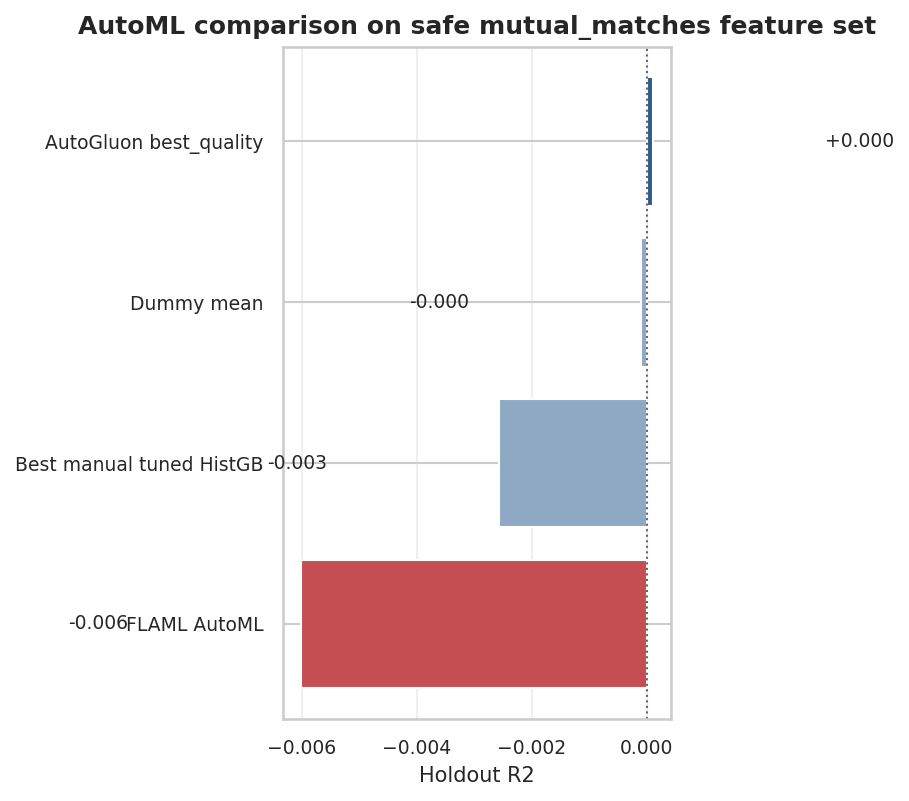
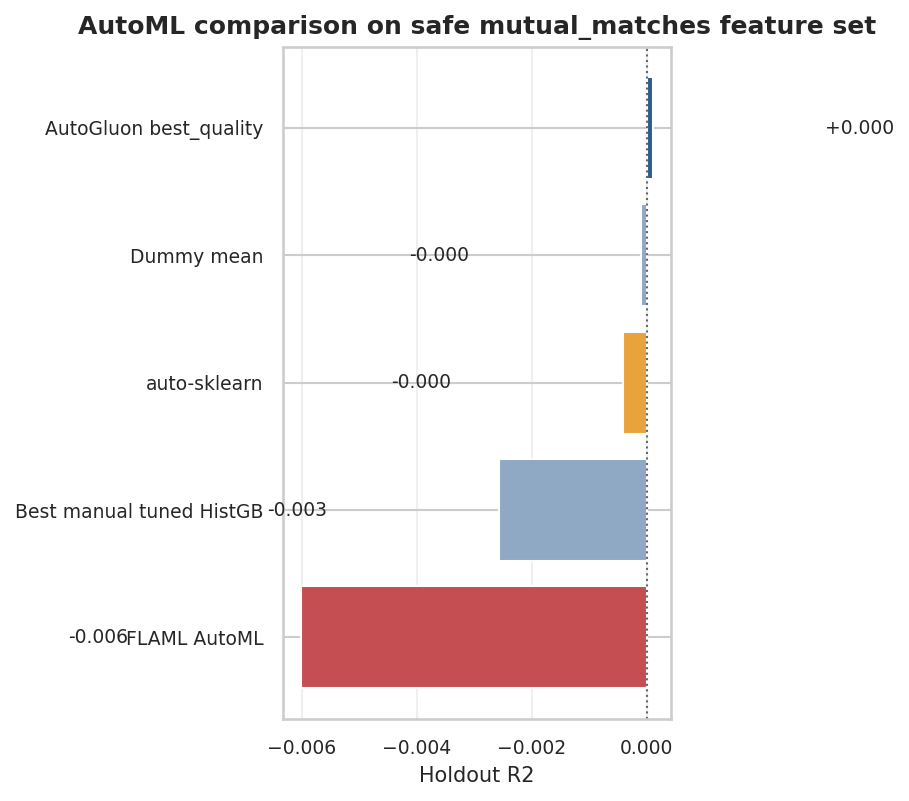
results: add auto-sklearn Colab run outputs (R²=−0.000)
All four AutoML systems now have real numbers: FLAML −0.006,
AutoGluon +0.000, auto-sklearn −0.000. Confirms no-signal finding
is a dataset property, not a modelling failure.

diff --git a/reports/engagement_summary.md b/reports/engagement_summary.md
@@ -23,6 +23,16 @@
 }
 ```
 
-## AutoML Note
+## AutoML Comparison Under Platform Constraints
 
-Run `scripts/06_automl_comparison.py` after training to append the executed AutoGluon comparison. auto-sklearn should only be reported if it is actually run in Colab/Linux.
+The project was developed on Windows. FLAML is a Windows-native AutoML framework that does not depend on Unix-specific system resources and was executed locally. auto-sklearn was additionally executed in Google Colab/Linux. AutoGluon Tabular was also used as a second Windows-compatible benchmark.
+
+| Model | Backend | Status | Holdout R2 | MAE | RMSE |
+|---|---|---|---:|---:|---:|
+| Dummy mean | manual baseline | ok | -0.000 | 7.897 | 9.097 |
+| Best manual tuned HistGB | manual tuned | ok | -0.003 | 7.909 | 9.108 |
+| FLAML AutoML | FLAML | ok | -0.006 | 7.916 | 9.123 |
+| auto-sklearn | auto-sklearn | ok | -0.000 | 7.892 | 9.098 |
+| AutoGluon best_quality | AutoGluon | ok | 0.000 | 7.898 | 9.096 |
+
+Best observed AutoML/manual comparison row: **AutoGluon best_quality** (AutoGluon, holdout R2=0.000). All comparisons use the safe feature set with `likes_received`, `match_outcome`, and the active target excluded.
